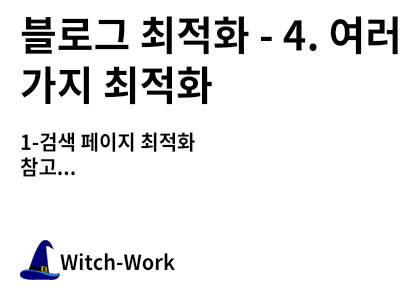
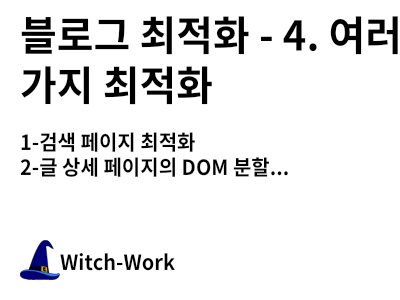
프로젝트 사진들을 cloudinary로

Changed region(s): [[0.03, 0.51, 0.72, 0.6]]

diff --git a/blog-project.ts b/blog-project.ts
@@ -1,7 +1,10 @@
 export interface projectType {
   title: string;
   description: string;
-  image: string;
+  image: {
+    local: string;
+    cloudinary: string;
+  };
   url: {
     title: string;
     link: string;
@@ -13,7 +16,11 @@ const projectList: projectType[] = [
   {
     title: 'Witch-Work',
     description: '직접 제작한 개인 블로그',
-    image: '/witch.jpeg',
+    image:{
+      local:'/witch.jpeg',
+      cloudinary:'witch_t17vcr.jpg'
+      
+    },
     url: [
       {
         title: 'URL',
@@ -29,7 +36,10 @@ const projectList: projectType[] = [
   {
     title:'CS 마인드맵(제작중)',
     description:'컴퓨터 공학 지식 마인드 맵',
-    image:'/project/mind-map.jpg',
+    image:{
+      local:'/project/mind-map-small.jpg',
+      cloudinary:'mind-map-small_ouckq6.jpg'
+    },
     url:[
       {
         title:'URL',
@@ -41,7 +51,10 @@ const projectList: projectType[] = [
   {
     title:'UYU(제작중)',
     description:'북마크 저장 서비스, 우리들의 URL \'우유\'',
-    image:'/project/uyu.jpeg',
+    image:{
+      local:'/project/uyu.jpeg',
+      cloudinary:'uyu_yq5iyz.jpg'
+    },
     url:[
       {
         title:'Github',
@@ -53,7 +66,10 @@ const projectList: projectType[] = [
   {
     title:'Code Editor by C',
     description:'C로 직접 깎은 코드 에디터',
-    image:'/project/autocomplete.gif',
+    image:{
+      local:'/project/autocomplete.gif',
+      cloudinary:'autocomplete_p45wk7.gif'
+    },
     url:[
       {
         title:'Github',

diff --git a/src/components/projectCard/index.tsx b/src/components/projectCard/index.tsx
@@ -1,5 +1,6 @@
 import Link from 'next/link';
 
+import blogConfig from 'blog-config';
 import { projectType } from 'blog-project';
 
 import ProjectImage from './image';
@@ -8,6 +9,9 @@ import styles from './styles.module.css';
 import ProjectTitle from './title';
 
 function ProjectCard({project}: {project: projectType}) {
+  const imageURL=(blogConfig.imageStorage==='local'?'':`https://res.cloudinary.com/${process.env.NEXT_PUBLIC_CLOUDINARY_CLOUD_NAME}/image/upload/w_400/blog/`)
+  +project.image[blogConfig.imageStorage];
+
   return (
     <Link className={styles.wrapper} href={project.url[0].link} target='_blank'>
       <article className={styles.container} >
@@ -15,7 +19,7 @@ function ProjectCard({project}: {project: projectType}) {
           <ProjectTitle title={project.title} />
         </div>
         <div className={styles.imagebox}>
-          <ProjectImage title={project.title} image={project.image} />
+          <ProjectImage title={project.title} image={imageURL} />
         </div>
         <div className={styles.introbox}>
           <ProjectIntro project={project} />

diff --git a/blog-config.ts b/blog-config.ts
@@ -19,6 +19,7 @@ interface BlogConfigType {
       lang?: 'ko' | 'en'; // defaults to 'en'
       lazy?: boolean;
     };
+  imageStorage: 'local' | 'cloudinary'; // defaults to 'local'
   thumbnail: string;
   googleAnalyticsId?: string; // gtag id
 }
@@ -45,6 +46,7 @@ const blogConfig: BlogConfigType = {
     category: 'General',
     categoryId: 'DIC_kwDOJnEDac4CXFDt',
   },
+  imageStorage: 'cloudinary',
   thumbnail: '/witch.jpeg',
   googleAnalyticsId:'G-HBQKJEYL1K'
 };

diff --git a/posts/dev/blog-opt-3/index.md b/posts/dev/blog-opt-3/index.md
@@ -89,9 +89,82 @@ const nextConfig = {
 
 ![vercel 환경 변수들](./vercel-env-var.png)
 
+# 3. 이미지 서빙 시스템 설계
+
+기존에는 모든 이미지를 다 웹사이트 빌드 시에 같이 넣어 주었다. 그런데 이제는 cloudinary를 사용할 것이다. 하지만 그럼 기존에 쓰던 이미지 저장 방식은 아예 버려야 할까?
+
+그럴 수도 있겠지만 이미지 저장 방식을 바꿀 때 새로운 방식밖에 쓸 수 없도록 바꾸는 게 좋지는 않다고 생각한다. cloudinary를 무제한으로 쓸 수 있는 것도 아니기에 언젠가 기존의 저장 방식으로 돌아와야 할 수도 있다. 그리고 또다른 클라우드 저장소를 사용하게 될 수도 있다.
+
+이런 걱정을 하는 이유는 물론 돈이다. 나는 프리티어나 아주 저렴한 요금제밖에 쓸 수 없는데 cloudinary의 유료정책은 꽤 비싸니까...
+
+![돈이 없어](./no-money.webp)
+
+따라서 `blog-config.ts`의 `blogConfig`에 이미지를 어디에 저장할지도 택할 수 있게 하자. 기본값은 `local`이다. 
+
+`blogConfig.imageStorage` 값이 `local`이면 `public/images`에 저장하고, `cloudinary`면 cloudinary에 저장하도록 하고 이미지 URL은 2가지로 저장하여 사용자가 설정하는 `blogConfig.imageStorage`에 따라서 불러오도록 하자.
+
+```ts
+interface BlogConfigType {
+  name: string;
+  title: string;
+  description: string;
+  picture: string;
+  url: string;
+  social: {
+    Github: string;
+    BOJ: string;
+  };
+  comment: {
+      type: 'giscus';
+      repo: string;
+      repoId: string;
+      category: string;
+      categoryId: string;
+      lang?: 'ko' | 'en'; // defaults to 'en'
+      lazy?: boolean;
+    };
+    /* 이미지 저장소를 선택할 수 있도록 타입 지정 */
+  imageStorage: 'local' | 'cloudinary'; // defaults to 'local'
+  thumbnail: string;
+  googleAnalyticsId?: string; // gtag id
+}
+```
+
+# 4. 메인 페이지 이미지 최적화
+
+메인 페이지에 있는 이미지는 내 프로필의 것을 뺀다면 고작 4개뿐이다. 프로젝트들의 이미지들이다. 그리고 이는 동적으로 생성되는 게 아니기 때문에 바꾸기도 쉽다. Cloudinary에 업로드한 후 각 이미지를 쓰는 태그의 src를 바꿔주면 된다.
+
+먼저 `blog-project.ts`에서 프로젝트의 저장 시 image URL 타입을 local, cloudinary 두 URL 모두가 담길 수 있도록 변경하자.
+
+```ts
+// blog-project.ts
+export interface projectType {
+  title: string;
+  description: string;
+  image: {
+    local: string;
+    cloudinary: string;
+  };
+  url: {
+    title: string;
+    link: string;
+  }[];
+  techStack: string[];
+}
+```
+
+그리고 cloudinary media library에서 `/blog` 폴더를 생성한다.
+
+![블로그 폴더 생성](./new-blog-folder.png)
+
+그런데 이때 전체 URL을 넣어놓는 건 좀 찝찝해서 cloudinary Image의 경우 public ID만 넣어 놓기로 했다.
+
+
 
 # 참고
 
 https://vercel.com/blog/building-a-fast-animated-image-gallery-with-next-js
 
 https://nextjs.org/docs/pages/building-your-application/optimizing/images
+
+https://cloudinary.com/documentation/image_upload_api_reference#upload

diff --git a/posts/dev/blog-opt-4/index.md b/posts/dev/blog-opt-4/index.md
@@ -9,6 +9,10 @@ tags: ["blog", "web"]
 
 검색 페이지는 현재 너무 많은 DOM 트리 요소를 가지고 있다. 따라서 무한 스크롤을 이용해서 초기 로딩되는 요소를 줄여보자.
 
+# 2. 글 상세 페이지의 DOM 분할
+
+
+
 # 참고
 
 https://www.bucketplace.com/post/2020-09-10-%EC%98%A4%EB%8A%98%EC%9D%98%EC%A7%91-%EB%82%B4-%EB%AC%B4%ED%95%9C%EC%8A%A4%ED%81%AC%EB%A1%A4-%EA%B0%9C%EB%B0%9C%EA%B8%B0/
